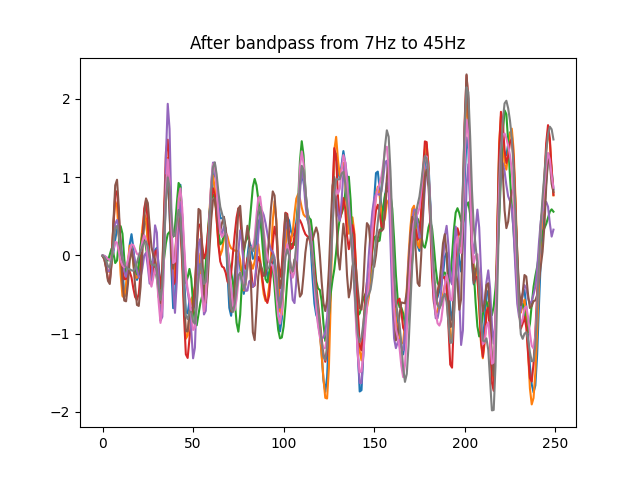
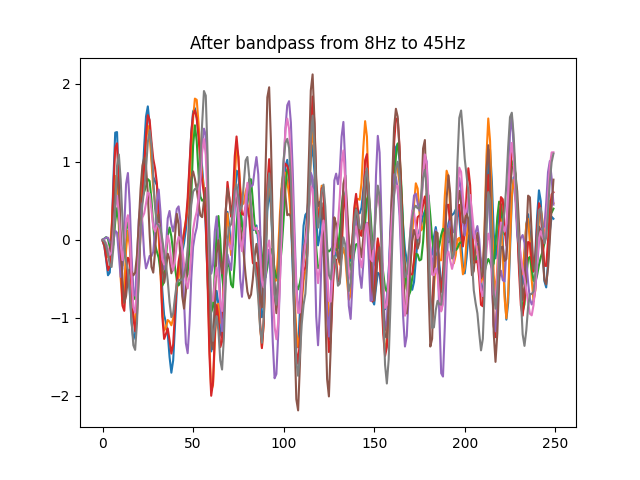
Added EEGNet

diff --git a/training.py b/training.py
@@ -40,7 +40,7 @@ def fit_and_save(model, epochs, train_X, train_y, validation_X, validation_y, ba
 
         MODEL_NAME = f"models/{round(score * 100, 2)}-{epoch}epoch-{int(time.time())}-loss-{round(val_loss, 2)}.model"
 
-        if 77 <= round(score * 100, 2) <= 80 and round(history.history["accuracy"][-1] * 100, 2) >= 78:
+        if  round(score * 100, 4) >= 81 and round(history.history["accuracy"][-1] * 100, 4) >= 81:
             # saving & plotting only relevant models
             model.save(MODEL_NAME)
             print("saved: ", MODEL_NAME)
@@ -154,8 +154,8 @@ def main():
     tmp_validation_X, validation_y = load_data(starting_dir="validation_data", shuffle=True, balance=True)
 
     # cleaning the raw personal_dataset
-    train_X, fft_train_X = preprocess_raw_eeg(tmp_train_X, lowcut=7, highcut=45, coi3order=0)
-    validation_X, fft_validation_X = preprocess_raw_eeg(tmp_validation_X, lowcut=7, highcut=45, coi3order=0)
+    train_X, fft_train_X = preprocess_raw_eeg(tmp_train_X, lowcut=8, highcut=45, coi3order=0)
+    validation_X, fft_validation_X = preprocess_raw_eeg(tmp_validation_X, lowcut=8, highcut=45, coi3order=0)
 
     # check_other_classifiers(train_X, train_y, validation_X, validation_y)
 
@@ -185,10 +185,10 @@ def main():
     # model = cris_net((len(fft_train_X[0]), len(fft_train_X[0, 0]), 1))
     model.summary()
     model.compile(loss='categorical_crossentropy',
-                  optimizer='adam',
+                  optimizer='nadam',
                   metrics=['accuracy'])
 
-    # keras.utils.plot_model(model, "pictures/net.png", show_shapes=True)
+    keras.utils.plot_model(model, "pictures/net.png", show_shapes=True)
 
     batch_size = 16
     epochs = 700

diff --git a/neural_nets.py b/neural_nets.py
@@ -134,8 +134,8 @@ def TA_CSPNN(nb_classes, Channels=8, Timesamples=250,
 
 
 def EEGNet(nb_classes, Chans=8, Samples=250,
-           dropoutRate=0.5, kernLength=125, F1=8,
-           D=2, F2=16, norm_rate=0.25, dropoutType='Dropout'):
+           dropoutRate=0.5, kernLength=125, F1=7,
+           D=2, F2=7, norm_rate=0.25, dropoutType='Dropout'):
     """ Keras Implementation of EEGNet
     http://iopscience.iop.org/article/10.1088/1741-2552/aace8c/meta
     Note that this implements the newest version of EEGNet and NOT the earlier
@@ -216,8 +216,7 @@ def EEGNet(nb_classes, Chans=8, Samples=250,
     block1 = AveragePooling2D((1, 4))(block1)
     block1 = dropoutType(dropoutRate)(block1)
 
-    block2 = SeparableConv2D(F2, (1, 16),
-                             use_bias=False, padding='same')(block1)
+    block2 = SeparableConv2D(F2, (1, 16), use_bias=False, padding='same')(block1)
     block2 = BatchNormalization(axis=1)(block2)
     block2 = Activation('elu')(block2)
     block2 = AveragePooling2D((1, 8))(block2)
@@ -225,8 +224,7 @@ def EEGNet(nb_classes, Chans=8, Samples=250,
 
     flatten = Flatten(name='flatten')(block2)
 
-    dense = Dense(nb_classes, name='dense',
-                  kernel_constraint=max_norm(norm_rate))(flatten)
+    dense = Dense(nb_classes, name='dense', kernel_constraint=max_norm(norm_rate))(flatten)
     softmax = Activation('softmax', name='softmax')(dense)
 
     return Model(inputs=input1, outputs=softmax)

diff --git a/check_model.py b/check_model.py
@@ -62,10 +62,10 @@ def evaluate_model(untouched_X, untouched_y, model_path):
 if __name__ == "__main__":
     tmp_untouched_X, untouched_y = load_data(starting_dir="untouched_data")
 
-    untouched_X, fft_untouched_X = preprocess_raw_eeg(tmp_untouched_X, lowcut=7, highcut=45, coi3order=0)
+    untouched_X, fft_untouched_X = preprocess_raw_eeg(tmp_untouched_X, lowcut=8, highcut=45, coi3order=0)
     untouched_X = untouched_X.reshape((len(untouched_X), len(untouched_X[0]), len(untouched_X[0, 0]), 1))
 
-    score = evaluate_model(untouched_X, untouched_y, 'models/80.0-167epoch-1601812894-loss-0.47.model')
+    score = evaluate_model(untouched_X, untouched_y, 'models/73.75-230epoch-1601815738-loss-0.6.model')
     print("Accuracy on Untouched Data: ", score[1])
 
     # models/77.33-184epoch-1601636305-loss-0.56.model
@@ -80,4 +80,4 @@ if __name__ == "__main__":
     # models/85.42-281epoch-1601757813-loss-0.41.model'
 
     # best out of the very best
-    #models/80.0-167epoch-1601812894-loss-0.47.model no coif
+    #models/80.0-167epoch-1601812894-loss-0.47.model no coif, 7-45 hz

diff --git a/dataset_tools.py b/dataset_tools.py
@@ -7,7 +7,7 @@ from colors import red, green
 import numpy as np
 import os
 
-ACTIONS = ["feet", "none", "hands"]
+ACTIONS = ["feet","none", "hands"]
 
 
 def split_data(starting_dir="personal_dataset", splitting_percentage=(70, 20, 10), shuffle=True, coupling=False,
